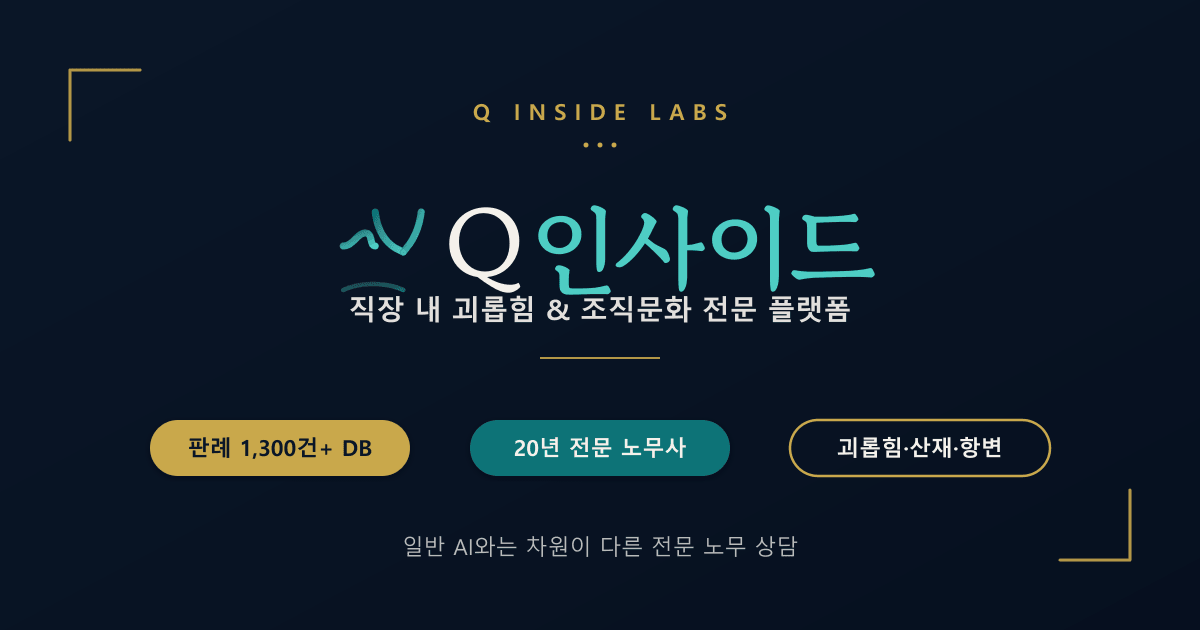
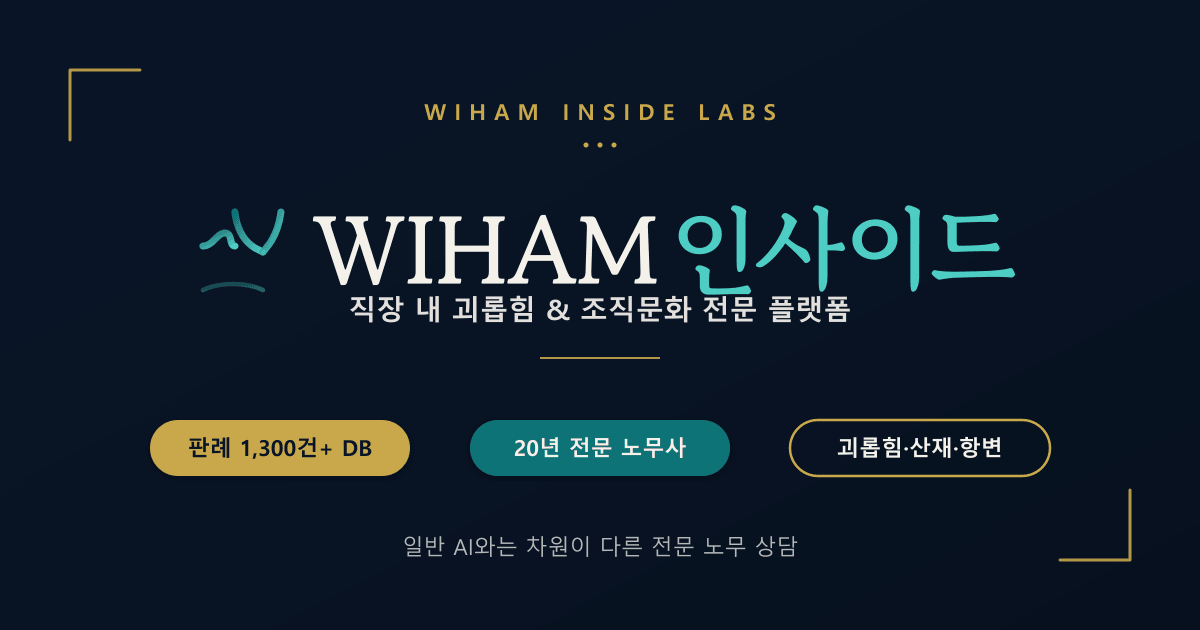
OG 이미지 — Q INSIDE LABS → WIHAM INSIDE LABS
- gen-og.js: 메인 타이틀 'Q' → 'WIHAM' (5글자라 spacing 약간 조정)
- 상단 태그: 'Q INSIDE LABS' → 'WIHAM INSIDE LABS'
- 새 이미지로 og-image.png 재생성 (1200×630, 22.6 KB)
- usePageMeta: 기본 image URL에 ?v=2 캐시 버스팅 쿼리 추가
  · 카카오톡/페이스북 등이 옛 이미지 캐시 들고있어도 강제 갱신
  · 다음 이미지 디자인 변경 시 v=3, v=4… 올리기

Changed region(s): [[0.1542, 0.3317, 0.8633, 0.4825], [0.3392, 0.1508, 0.6475, 0.2111], [0.1542, 0.4222, 0.2158, 0.4825]]

diff --git a/scripts/gen-og.js b/scripts/gen-og.js
@@ -75,27 +75,27 @@ function logoIcon(x, y, size) {
   `;
 }
 
-// 메인 타이틀: 로고 + Q(크림) + 인사이드(티얼) 센터 정렬
+// 메인 타이틀: 로고 + WIHAM(크림) + 인사이드(티얼) 센터 정렬
 function mainTitle(centerX, centerY, fontSize, logoSize) {
-  const gap = 24;             // 로고와 텍스트 사이
-  const textGap = 18;         // Q와 인사이드 사이
-  const qM = textMetrics("Q", fontSize);
+  const gap = 28;             // 로고와 텍스트 사이
+  const textGap = 22;         // WIHAM과 인사이드 사이
+  const wihamM = textMetrics("WIHAM", fontSize);
   const insideM = textMetrics("인사이드", fontSize);
-  const totalW = logoSize + gap + qM.width + textGap + insideM.width;
+  const totalW = logoSize + gap + wihamM.width + textGap + insideM.width;
   const startX = centerX - totalW / 2;
 
   const logoX = startX;
   const logoY = centerY - logoSize / 2;
 
-  const qX = startX + logoSize + gap - qM.x1;
-  const qY = centerY - qM.y1 - qM.height / 2;
+  const wihamX = startX + logoSize + gap - wihamM.x1;
+  const wihamY = centerY - wihamM.y1 - wihamM.height / 2;
 
-  const insideX = qX + qM.x1 + qM.width + textGap - insideM.x1;
+  const insideX = wihamX + wihamM.x1 + wihamM.width + textGap - insideM.x1;
   const insideY = centerY - insideM.y1 - insideM.height / 2;
 
   return `
     ${logoIcon(logoX, logoY, logoSize)}
-    ${drawPathAt(qM.path, qX, qY, CREAM)}
+    ${drawPathAt(wihamM.path, wihamX, wihamY, CREAM)}
     ${drawPathAt(insideM.path, insideX, insideY, TEAL_LIGHT)}
   `;
 }
@@ -122,7 +122,7 @@ const svg = `<?xml version="1.0" encoding="UTF-8"?>
   <!-- 상단 브랜드 태그 -->
   <text x="${W/2}" y="120" text-anchor="middle"
         fill="${GOLD}" font-family="'Malgun Gothic','Noto Sans KR',sans-serif"
-        font-size="22" font-weight="700" letter-spacing="8">Q INSIDE LABS</text>
+        font-size="22" font-weight="700" letter-spacing="8">WIHAM INSIDE LABS</text>
   <circle cx="${W/2-14}" cy="145" r="2.5" fill="${GOLD}"/>
   <circle cx="${W/2}"    cy="145" r="2.5" fill="${GOLD}"/>
   <circle cx="${W/2+14}" cy="145" r="2.5" fill="${GOLD}"/>

diff --git a/src/utils/usePageMeta.js b/src/utils/usePageMeta.js
@@ -19,7 +19,9 @@ function setMeta(selector, attrName, attrValue, content) {
 // - description: 페이지 설명 (160자 이내 권장)
 // - url: 절대 URL (https://wiham.kr/xxx)
 // - image: (선택) og:image 절대 URL. 없으면 기본 og-image.png 사용
-export function usePageMeta({ title, description, url, image = "https://wiham.kr/og-image.png" }) {
+//   ★ ?v= 버전 쿼리: 카카오톡/페이스북이 옛날 이미지를 캐시하면 안 보이므로
+//     이미지 디자인 변경할 때마다 v= 숫자 올려서 강제 캐시 버스팅
+export function usePageMeta({ title, description, url, image = "https://wiham.kr/og-image.png?v=2" }) {
   useEffect(() => {
     if (!title && !description && !url) return;
     const desc = (description || "").replace(/\s+/g, " ").trim().slice(0, 160);
